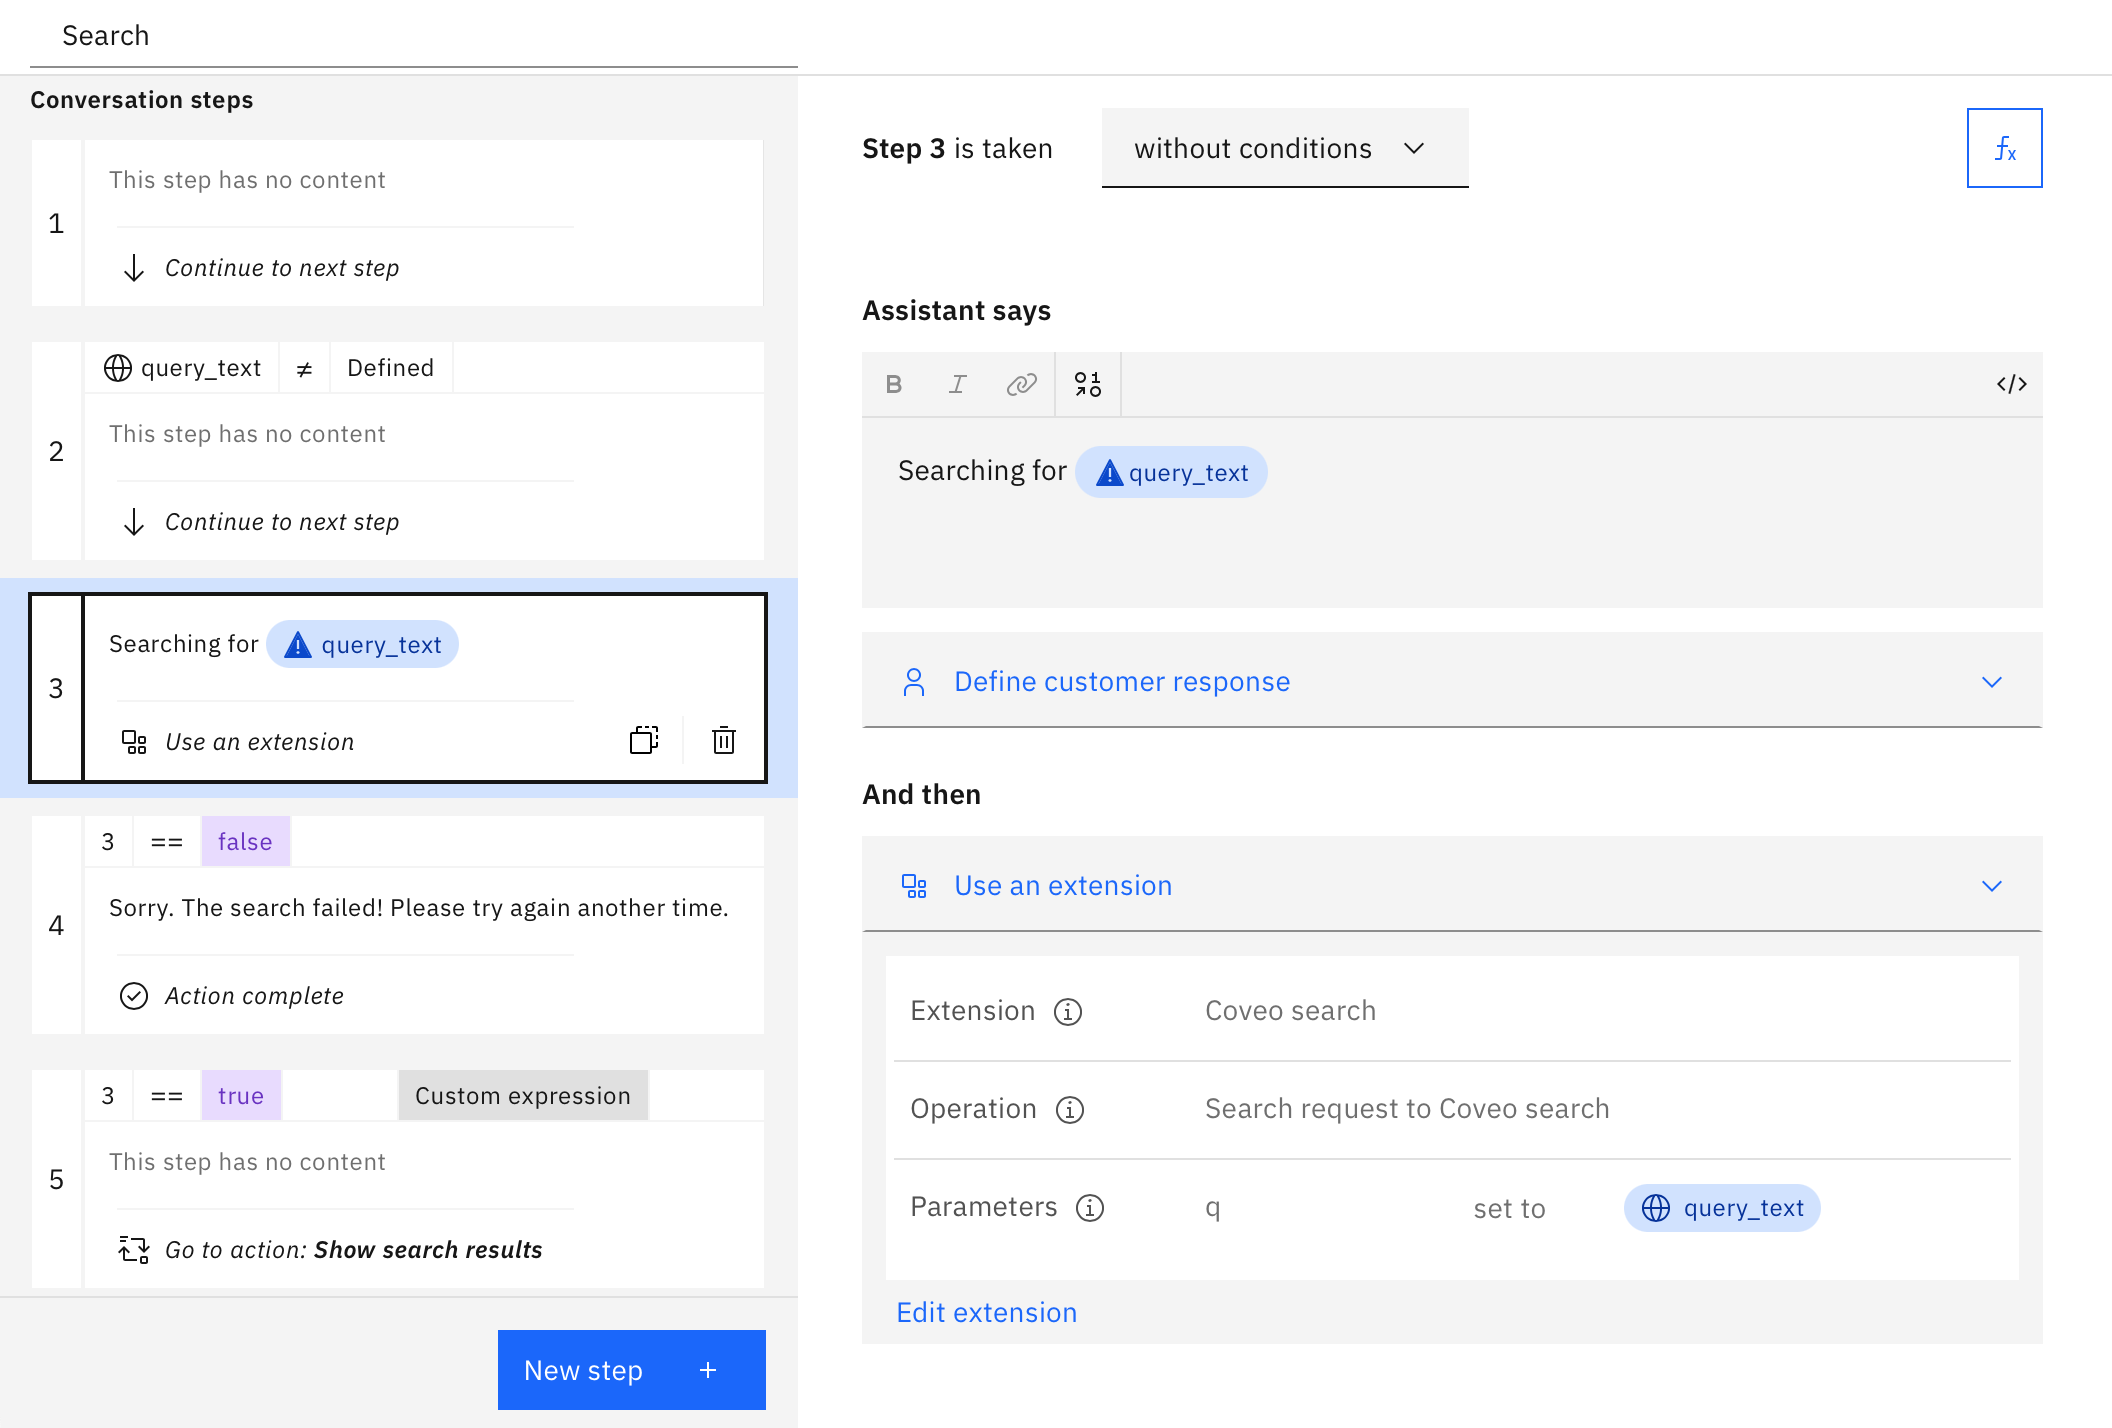
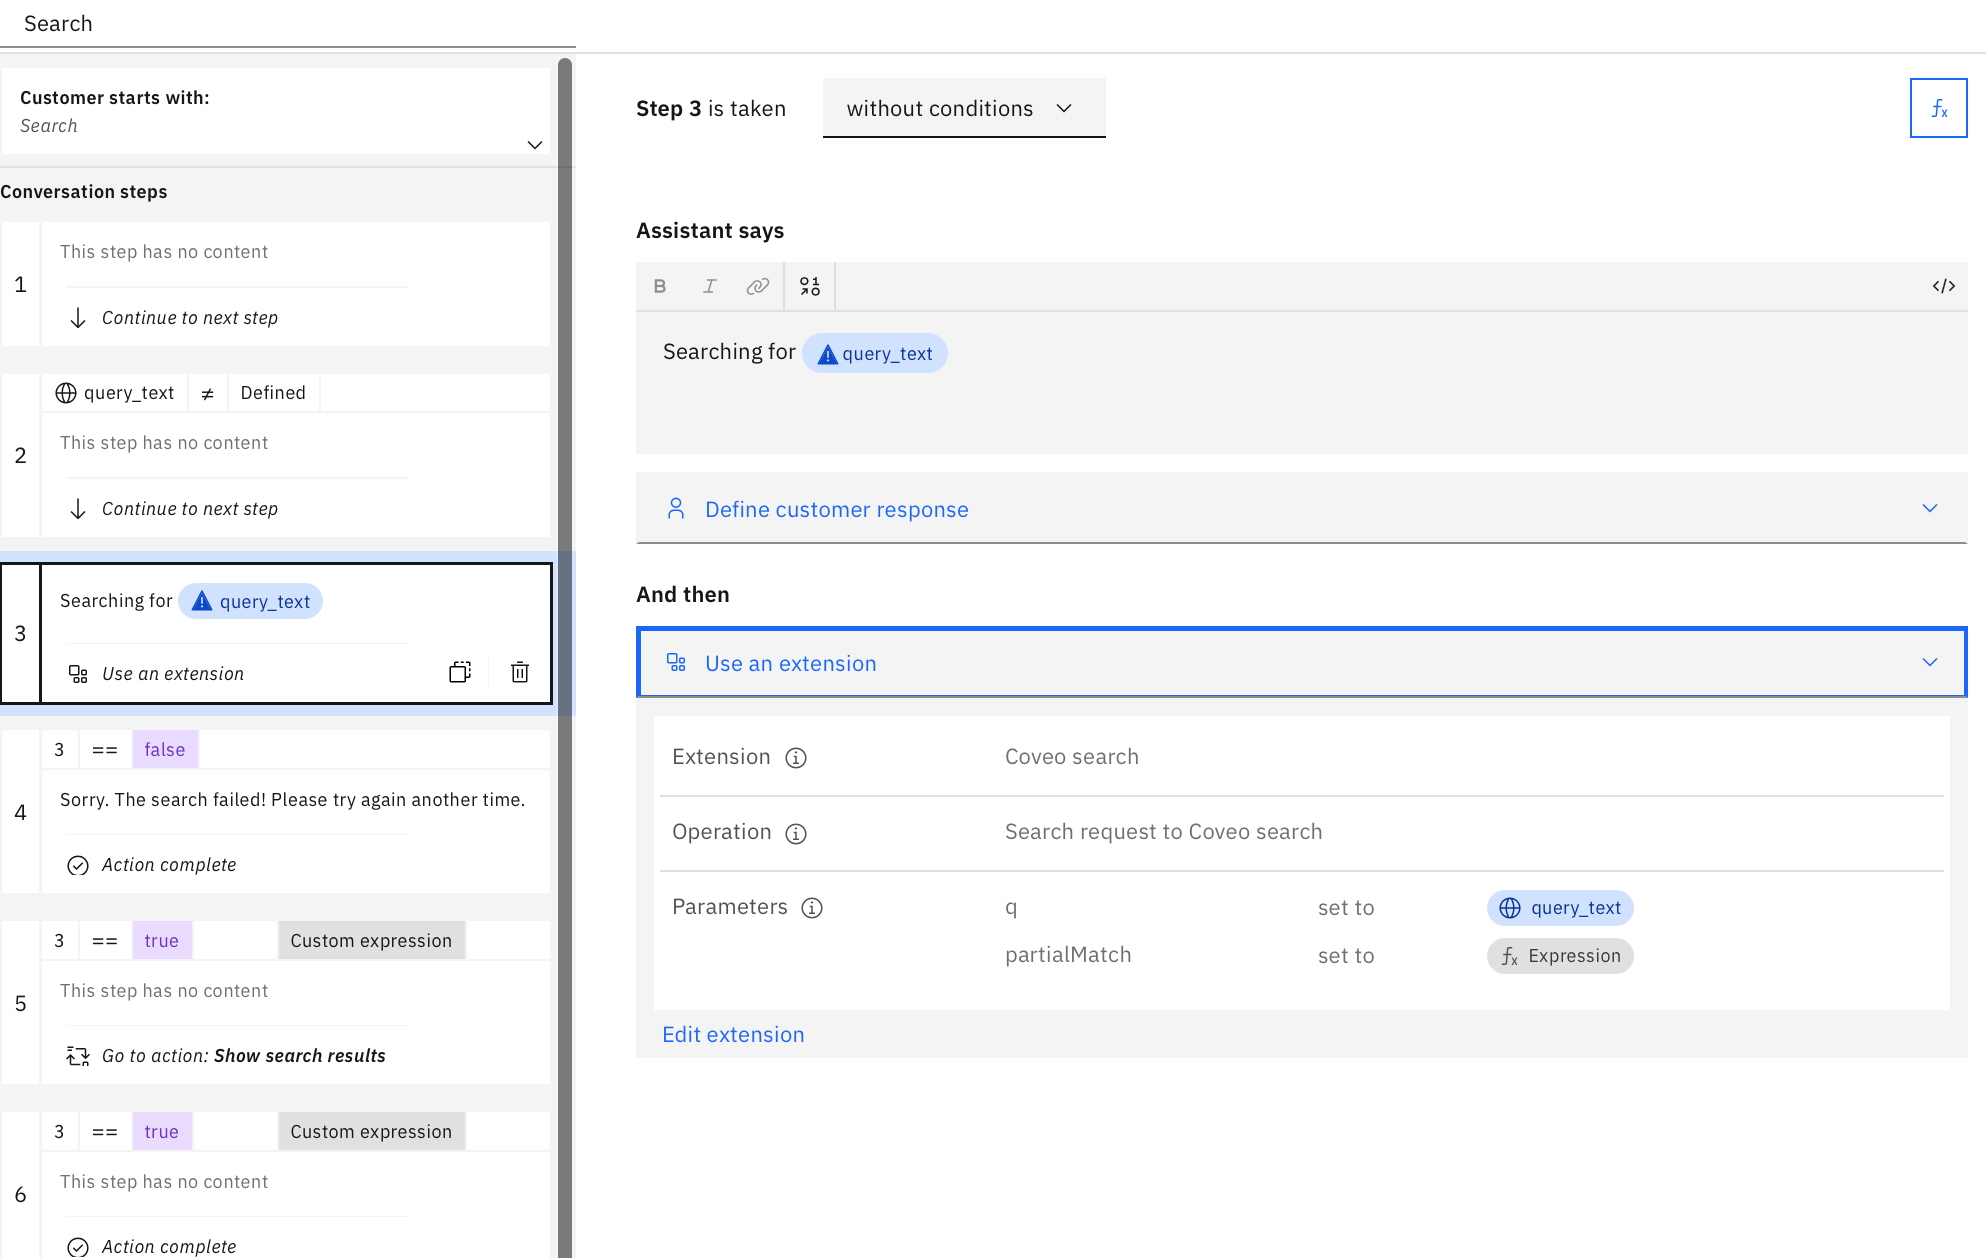
setting partialMatch to true

diff --git a/integrations/extensions/starter-kits/coveo/README.md b/integrations/extensions/starter-kits/coveo/README.md
@@ -52,7 +52,7 @@ If you want to add this starter kit to an _existing_ assistant, you cannot use t
 
     ![Setup query 2](./assets/search-step-2.png)<br>
 
-    - Add step 3 to run the search on the query using your extension. In "Assistant says", put `Searching for: ${query_text}`. In "And then", select "Use an extension", select your Coveo extension, and select the operation "Search request to Coveo search", and set the `q` parameter to the `query_text` session variable.
+    - Add step 3 to run the search on the query using your extension. In "Assistant says", put `Searching for: ${query_text}`. In "And then", select "Use an extension", select your Coveo extension, and select the operation "Search request to Coveo search", and set the `q` parameter to the `query_text` session variable. Optionally set the `partialMatch` variable to `true` (via the `Expression` option) to increase the possible answer matches for a query.
 
     ![Setup extension](./assets/setup-extension.png)<br>
 
